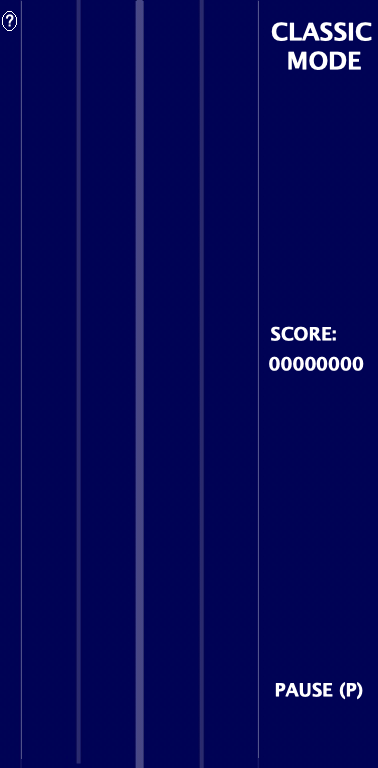
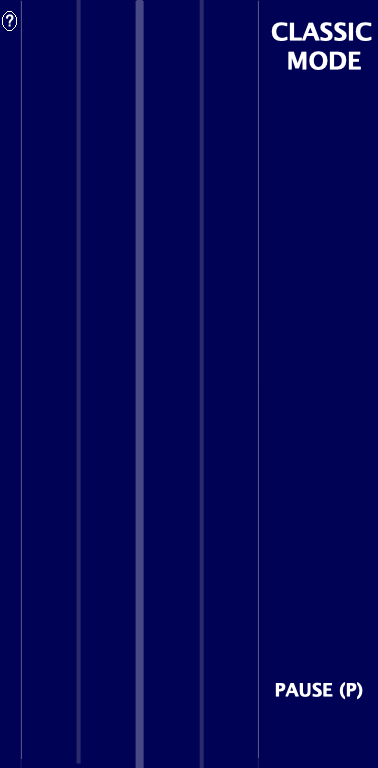
render score

Changed region(s): [[0.6984, 0.4062, 0.9603, 0.5]]

diff --git a/main.cpp b/main.cpp
@@ -48,6 +48,7 @@ SDL_Texture* map = nullptr;
 Text text;
 SDL_Window* window = nullptr;
 SDL_Renderer* renderer = nullptr;
+//TTF_Font TTF_score = TTF_OpenFont( "/Users/QuanVo/Documents/Xcode/QV_Game01/QV_Game01/Font/VNARIALB.ttf", size_text );
 
 int Random(int a, int b);
 void Set_Rect(SDL_Rect &rect, int x, int y, int w, int h);
@@ -70,6 +71,7 @@ int main() {
     if(die){
         waitUntilKeyPressed();
     }
+    text.Destroy();
     SDL_DestroyTexture(map);
     quitSDL(window, renderer);
     IMG_Quit();
@@ -106,7 +108,7 @@ void Play_Game(){
         draw();
          
         if(SDL_PollEvent(&e) == 0) continue;
-        cout << score << endl;
+        cout << "Score: " << score << endl;
     }
    // end
     Blue_Car.Texture_Destroy();
@@ -170,6 +172,8 @@ void draw(){
         SDL_RenderCopy(renderer, Blue_Obs[i].texture, NULL, &Blue_Obs[i].rect);
        }
     print_text(20, 255, 255, 255, "SCORE", 420, 360, 1.5);
+    print_text(20, 255, 255, 255, to_string(score), 420, 400, 1.5);
+
     SDL_RenderPresent(renderer);
 }
 void Object_move(bool &appearR , bool &appearB){
@@ -368,24 +372,35 @@ void Set_Object(){
     }
 }
 void print_text(int size_text, Uint8 r, Uint8 g, Uint8 b , string gText, int x, int y, double zoom ){
-    text.gFont = TTF_OpenFont( "/Users/QuanVo/Documents/Xcode/QV_Game01/QV_Game01/Font/VNARIALB.ttf", size_text );
+    TTF_Font *t = TTF_OpenFont( "/Users/QuanVo/Documents/Xcode/QV_Game01/QV_Game01/Font/VNARIALB.ttf", size_text );
+    text.gFont = t;
     if( text.gFont == NULL )
        {
            printf( "Failed to load lazy font! SDL_ttf Error: %s\n", TTF_GetError() );
+           //waitUntilKeyPressed();
+           //cout << size_text << endl;
        }
        else
        {
            //Render text
            text.color= { r, g, b };
-           if( text.loadFromRenderedText( gText, text.color, renderer ) )
+           if( !text.loadFromRenderedText( gText, text.color, renderer ) )
            {
                printf( "Failed to render text texture!\n" );
            }
        }
     text.rect.w*=zoom;
     text.rect.h*=zoom;
+    //text.rect.w=33;
+     //text.rect.h=28;
     text.rect.x=x;
     text.rect.y=y;
+   // cout << text.rect.x << " " << text.rect.y << " " << text.rect.w << " " << text.rect.h << endl;
+    
     SDL_RenderCopy(renderer, text.texture, nullptr, &text.rect);
+    //TTF_CloseFont( text.gFont );
+    TTF_CloseFont( t );
+          t  = nullptr;
+     text.gFont  = nullptr;
    // SDL_RenderPresent(renderer);
 }

diff --git a/Create_Object.hpp b/Create_Object.hpp
@@ -17,6 +17,7 @@ struct Text{
     SDL_Texture *texture;
     SDL_Rect rect;
     SDL_Color color;
+    
     void Destroy();
     void free();
     bool loadFromRenderedText(string textureText, SDL_Color color, SDL_Renderer *renderer );
